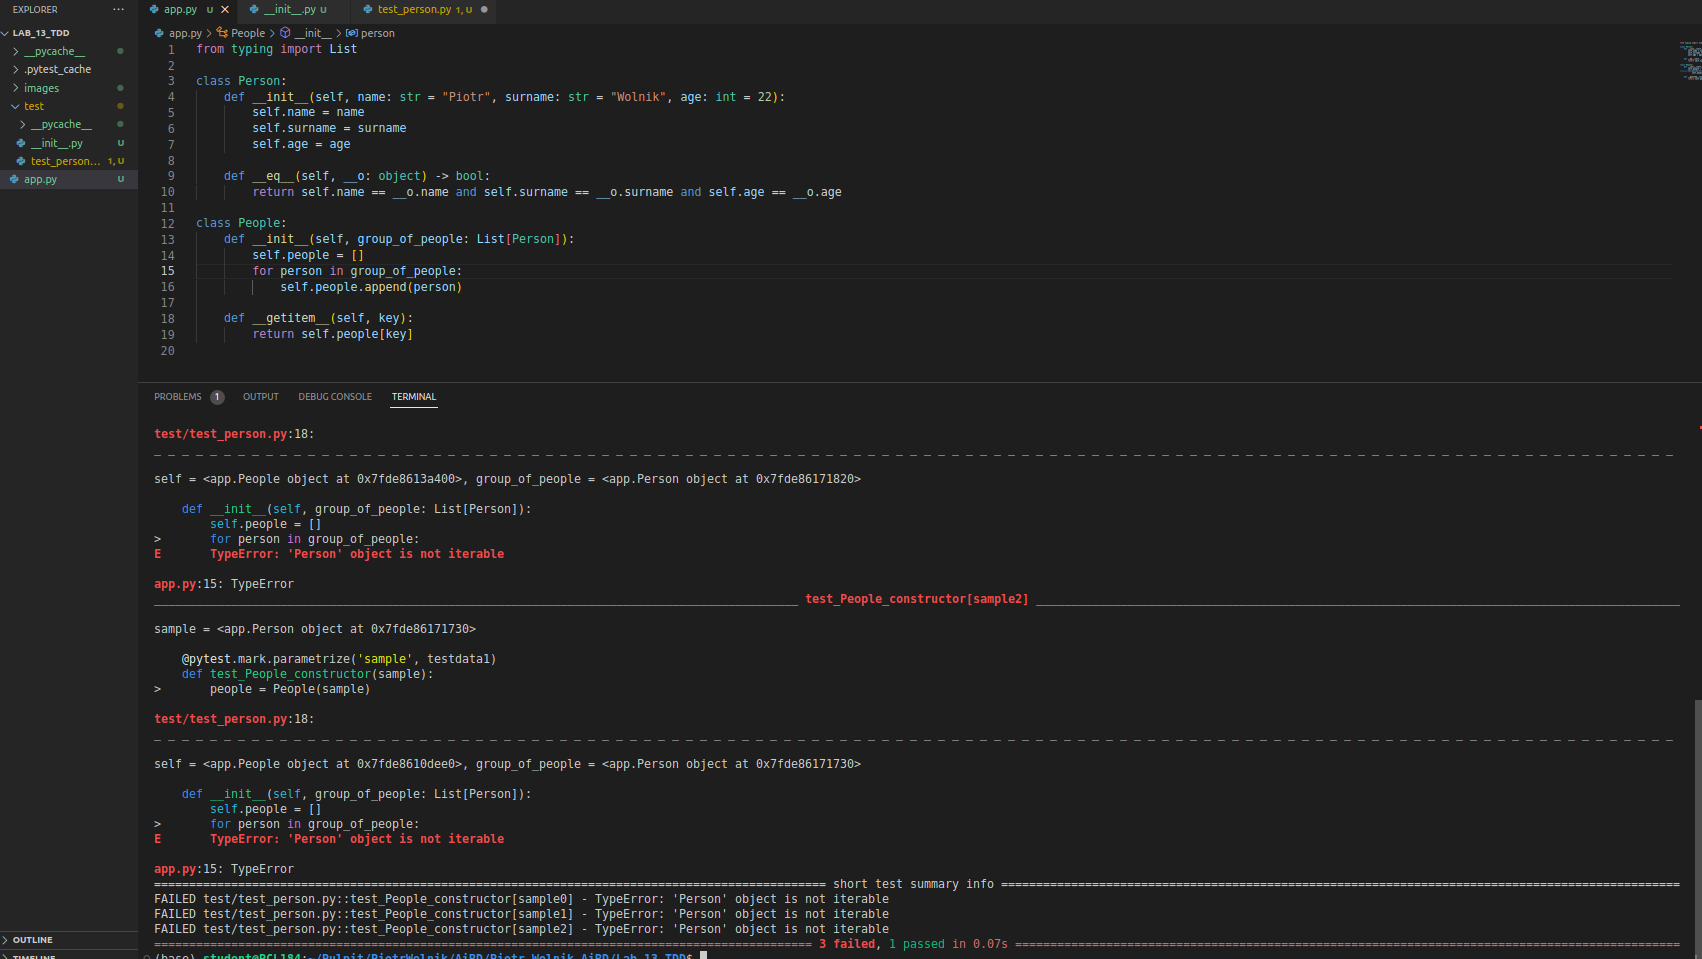
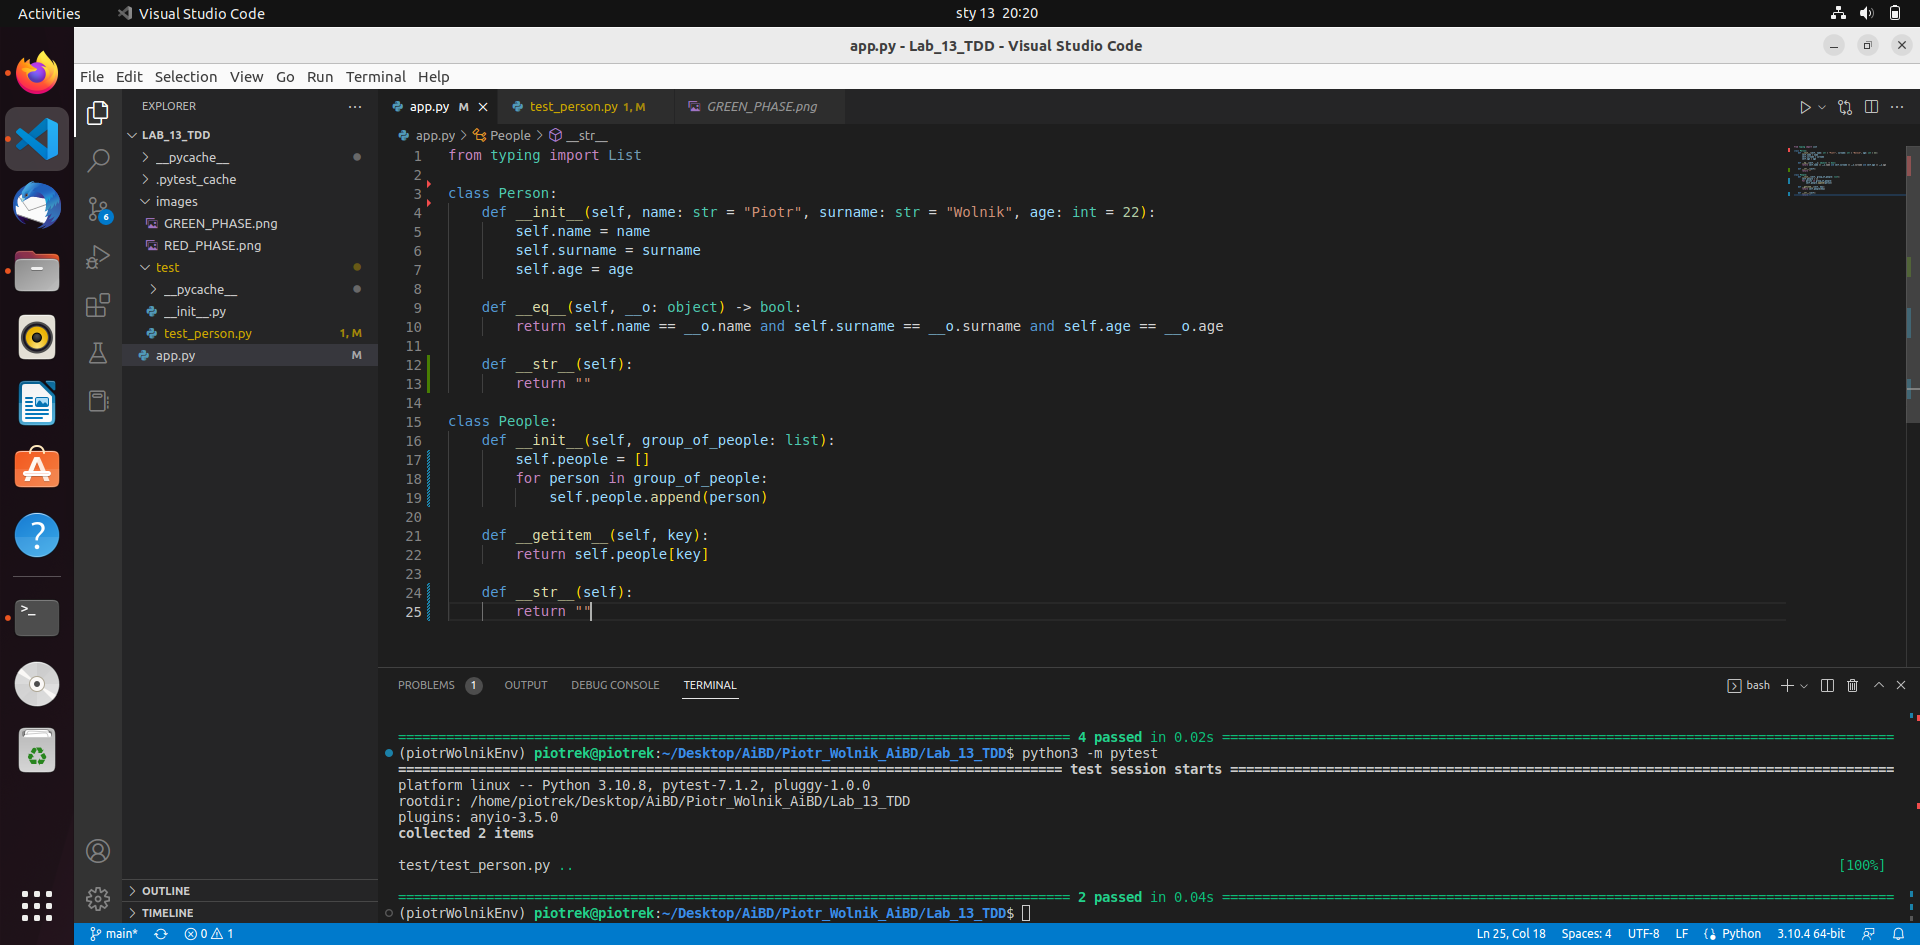
Final

diff --git a/Lab_13_TDD/app.py b/Lab_13_TDD/app.py
@@ -1,11 +1,6 @@
 from typing import List
 
-class GetAttr(type):
-    def __getitem__(cls, x):
-        return getattr(cls, x)
-
 class Person:
-    __metaclass__ = GetAttr
     def __init__(self, name: str = "Piotr", surname: str = "Wolnik", age: int = 22):
         self.name = name
         self.surname = surname
@@ -14,29 +9,20 @@ class Person:
     def __eq__(self, __o: object) -> bool:
         return self.name == __o.name and self.surname == __o.surname and self.age == __o.age
 
+    def __str__(self):
+        return f"{self.surname}, {self.name} -> {self.age}"
 
 class People:
     def __init__(self, group_of_people: list):
-        self.people = group_of_people
+        self.people = []
+        for person in group_of_people:
+            self.people.append(person)
 
     def __getitem__(self, key):
         return self.people[key]
 
-# class PersonClassIter:    
-    
-#     def __init__(self, PeopleGroup):
-#         self._group_of_people = PeopleGroup.people
-#         self._group_of_people_size = len(self._group_of_people)
-#         self._current_index = 0    
-        
-#         def __iter__(self):
-#             return self    
-        
-#         def __next__(self):
-#             if self._current_index < self._group_of_people_size:
-#                 person = self._lect[self._current_index] 
-#             else:
-#                 person = self._group_of_people[self._current_index]
-#                 self._current_index += 1
-#             return person        
-#             raise StopIteration
+    def __str__(self):
+        string = ""
+        for person in self.people:
+            string += f"{person}\n"
+        return string

diff --git a/Lab_13_TDD/test/test_person.py b/Lab_13_TDD/test/test_person.py
@@ -13,12 +13,17 @@ testdata1 = [
         Person("Joanna", "Phalaphel", 23)
 ]
 
-@pytest.mark.parametrize('sample', testdata1)
-def test_People_constructor(sample):
-    people = People(sample)
+def test_People_constructor():
+    people = People(testdata1)
     assert people[0] == Person("Piotr", "Wolnik", 22)
     assert people[1] == Person("Michael", "Crazy", 24)
     assert people[2] == Person("Joanna", "Phalaphel", 23)
 
 
-
+testdata = ["Wolnik, Piotr -> 22", "Crazy, Michael -> 24"]
+@pytest.mark.parametrize('sample', testdata)
+def test_str_method(sample):
+    people = People([Person("Piotr", "Wolnik", 22), Person("Michael", "Crazy", 24)])
+    assert str(people[0]) == testdata[0]
+    assert str(people[1]) == testdata[1]
+    
